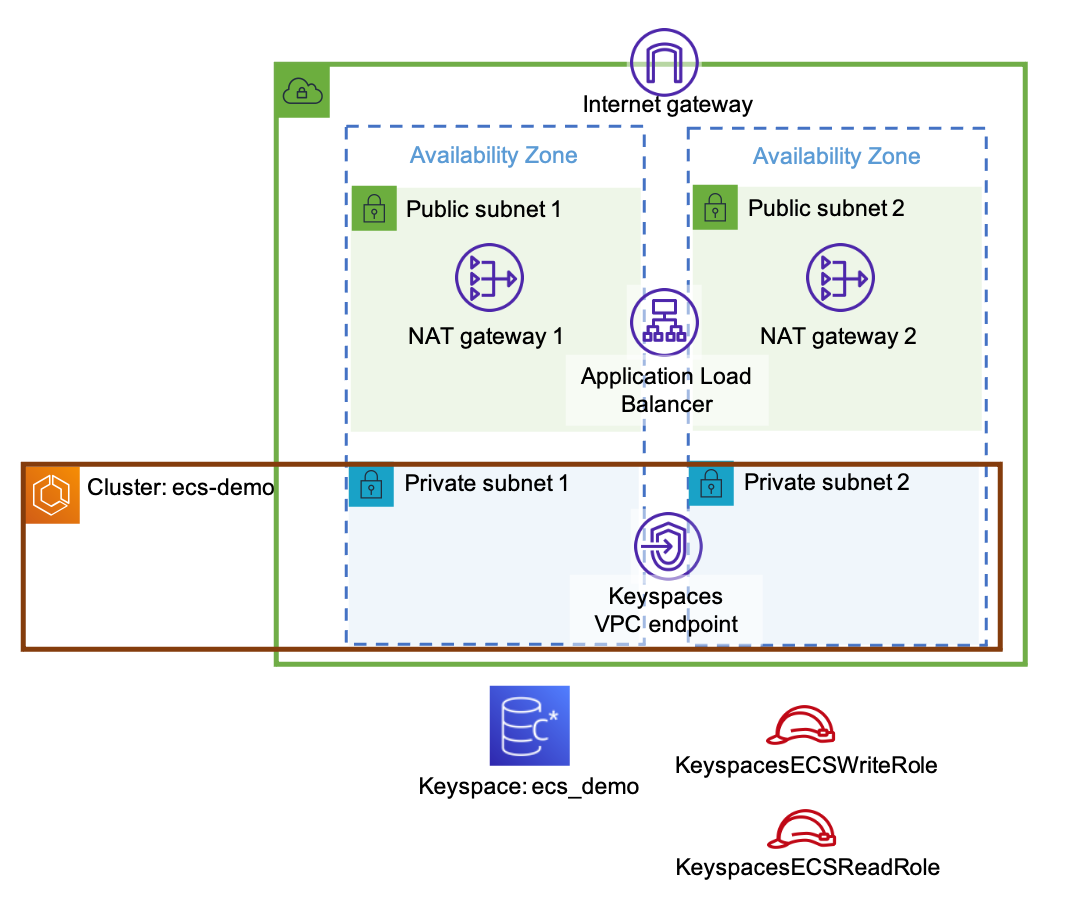
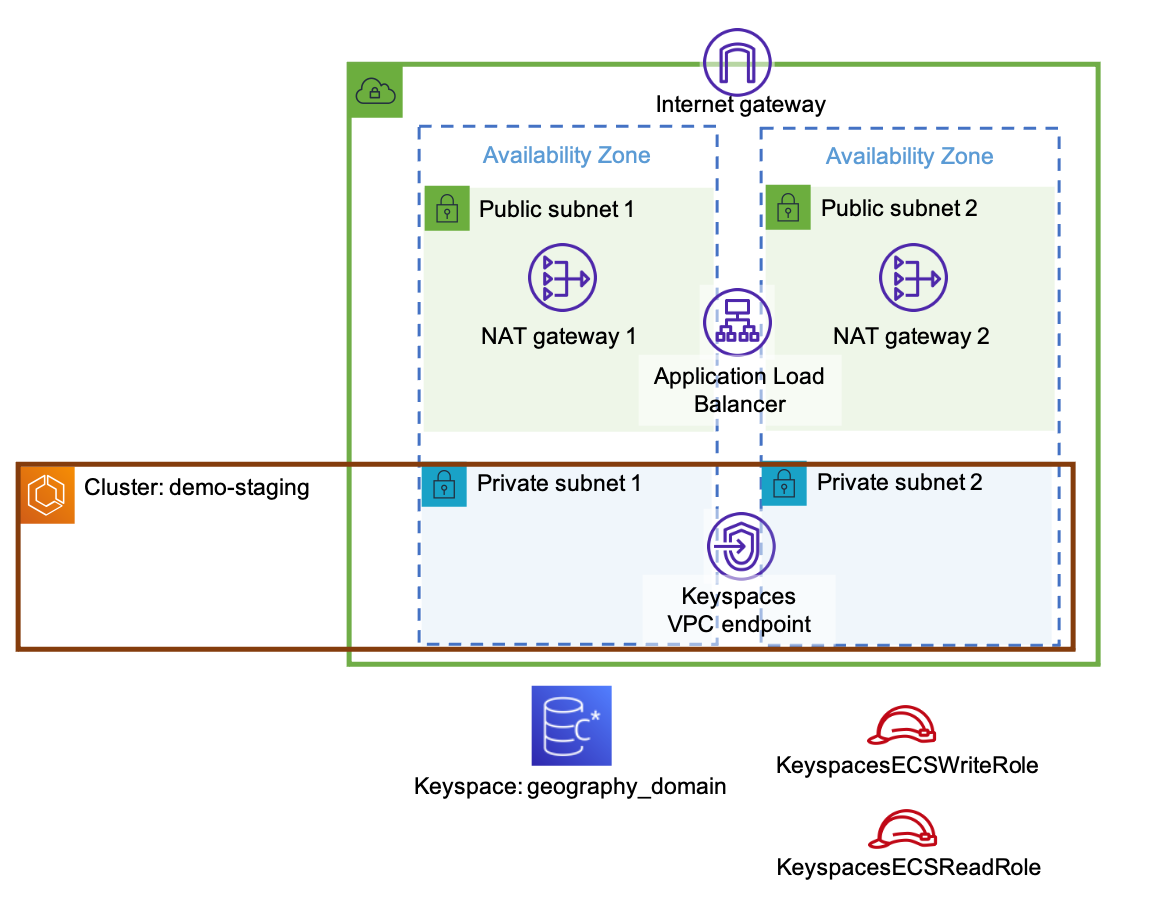
Further tweaks and optimisationsto align with blog post

diff --git a/nodejs/datastax-v4/ecs-sigv4/README.md b/nodejs/datastax-v4/ecs-sigv4/README.md
@@ -57,9 +57,11 @@ cd amazon-keyspaces-examples/nodejs/datastax-v4/ecs-sigv4
 Create the environment stack using:
 ```
 aws cloudformation deploy \
-  --stack-name ecs-demo \
+  --stack-name demo-infrastructure \
   --template-file cfn/Environment.yaml \
-  --parameter-overrides "EnvironmentName=ecs-demo" "KeyspaceName=ecs_demo" \
+  --parameter-overrides \
+    "EnvironmentName=demo-staging" \
+    "KeyspaceName=geography_domain" \
   --capabilities CAPABILITY_IAM
 ```
 
@@ -77,7 +79,7 @@ Once deployed, extract the following outputs as you will need them to deploy the
 
 ```
 aws cloudformation describe-stacks \
-  --stack-name ecs-demo \
+  --stack-name demo-infrastructure \
   --query "Stacks[0].Outputs[*].{key:OutputKey,value:OutputValue}" \
   --output text \
 | awk '{print "cfn_" $1 "=" $2}' > vars.sh
@@ -191,7 +193,7 @@ cat <<EoF >load-data-taskdef.json
     {
       "name": "load-data",
       "image": "${AWS_ACCOUNT_ID}.dkr.ecr.${AWS_REGION}.amazonaws.com/load-data",
-      "command" : [ "node", "load-data", "-r ${AWS_REGION}", "-k ecs_demo", "-t countries"],
+      "command" : [ "node", "load-data", "-r ${AWS_REGION}", "-k geography_domain", "-t countries"],
       "logConfiguration": {
         "logDriver": "awslogs",
         "options": {
@@ -210,7 +212,11 @@ aws ecs register-task-definition --cli-input-json file://load-data-taskdef.json
 
 Run the job using Fargate:
 ```
-aws ecs run-task --cluster ecs-demo --launch-type FARGATE --task-definition load-data --network-configuration "awsvpcConfiguration={subnets=[$PRIVATE_SUBNET_ONE,$PRIVATE_SUBNET_TWO],securityGroups=[$CONTAINER_SG]}"
+aws ecs run-task \
+  --cluster demo-staging \
+  --launch-type FARGATE \
+  --task-definition load-data \
+  --network-configuration "awsvpcConfiguration={subnets=[$PRIVATE_SUBNET_ONE,$PRIVATE_SUBNET_TWO],securityGroups=[$CONTAINER_SG]}"
 ```
 
 This task creates a table named `countries` in the keyspace `demo`, and populates it with some country data. You can monitor the progress of the task execution in the ECS console. Once the task has completed you can use the Amazon Keyspaces console to verfiy that the table exists, and to query the table.
@@ -250,7 +256,7 @@ cat <<EoF >query-api-taskdef.json
     {
       "name": "query-api",
       "image": "${AWS_ACCOUNT_ID}.dkr.ecr.${AWS_REGION}.amazonaws.com/query-api",
-      "command" : [ "node", "query-api-server", "-r ${AWS_REGION}", "-k ecs_demo", "-t countries"],
+      "command" : [ "node", "query-api-server", "-r ${AWS_REGION}", "-k geography_domain", "-t countries"],
       "logConfiguration": {
         "logDriver": "awslogs",
         "options": {
@@ -275,7 +281,14 @@ aws ecs register-task-definition --cli-input-json file://query-api-taskdef.json
 
 Run the service using Fargate
 ```
-aws ecs create-service --cluster ecs-demo --service-name query-api-server --launch-type FARGATE --task-definition query-api --network-configuration "awsvpcConfiguration={subnets=[$PRIVATE_SUBNET_ONE,$PRIVATE_SUBNET_TWO],securityGroups=[$CONTAINER_SG]}" --desired-count 2 --load-balancers "targetGroupArn=${SERVICE_TG},containerName=query-api,containerPort=80"
+aws ecs create-service \
+  --cluster demo-staging \
+  --service-name query-api-server\
+  --launch-type FARGATE \
+  --task-definition query-api \
+  --network-configuration "awsvpcConfiguration={subnets=[$PRIVATE_SUBNET_ONE,$PRIVATE_SUBNET_TWO],securityGroups=[$CONTAINER_SG]}" \
+  --desired-count 2 \
+  --load-balancers "targetGroupArn=${SERVICE_TG},containerName=query-api,containerPort=80"
 ```
 
 Wait about 30 seconds for the service to start running and then test as follows.
@@ -295,8 +308,8 @@ curl $EXTERNAL_URL/countries/us?pretty
 
 Stop the ECS service
 ```
-aws ecs update-service --cluster demo --service query-api-server --desired-count=0
-aws ecs delete-service --cluster demo --service query-api-server
+aws ecs update-service --cluster demo-staging --service query-api-server --desired-count=0
+aws ecs delete-service --cluster demo-staging --service query-api-server
 ```
 
 Delete the ECR repositories:
@@ -307,5 +320,5 @@ aws ecr delete-repository --repository-name query-api --force
 
 Delete the environment stack:
 ```
-aws cloudformation delete-stack --stack-name demo-env
+aws cloudformation delete-stack --stack-name demo-infrastructure
 ```
